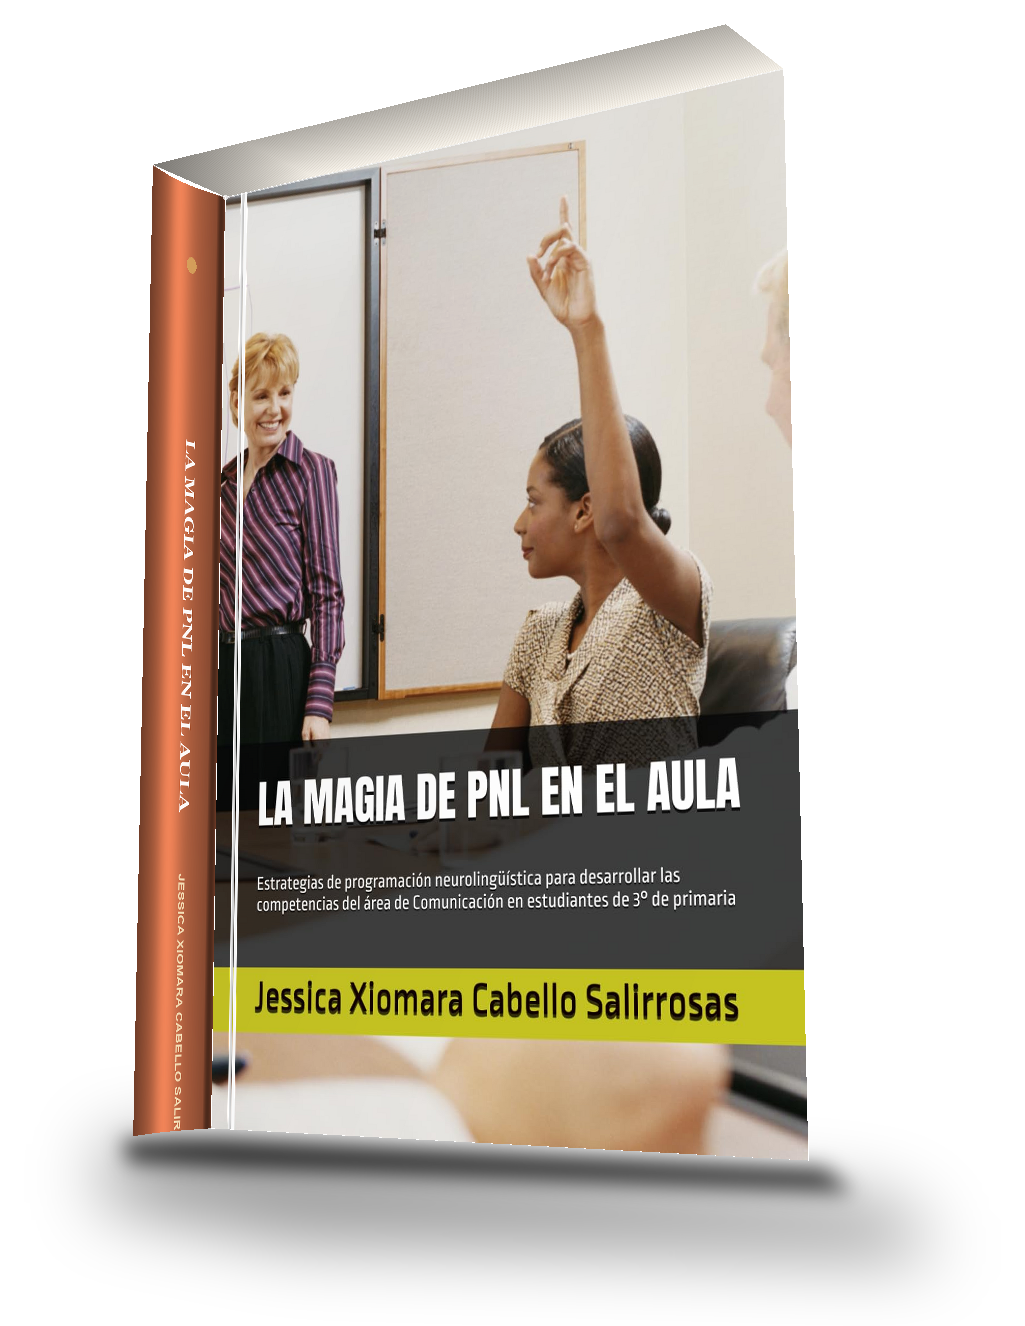
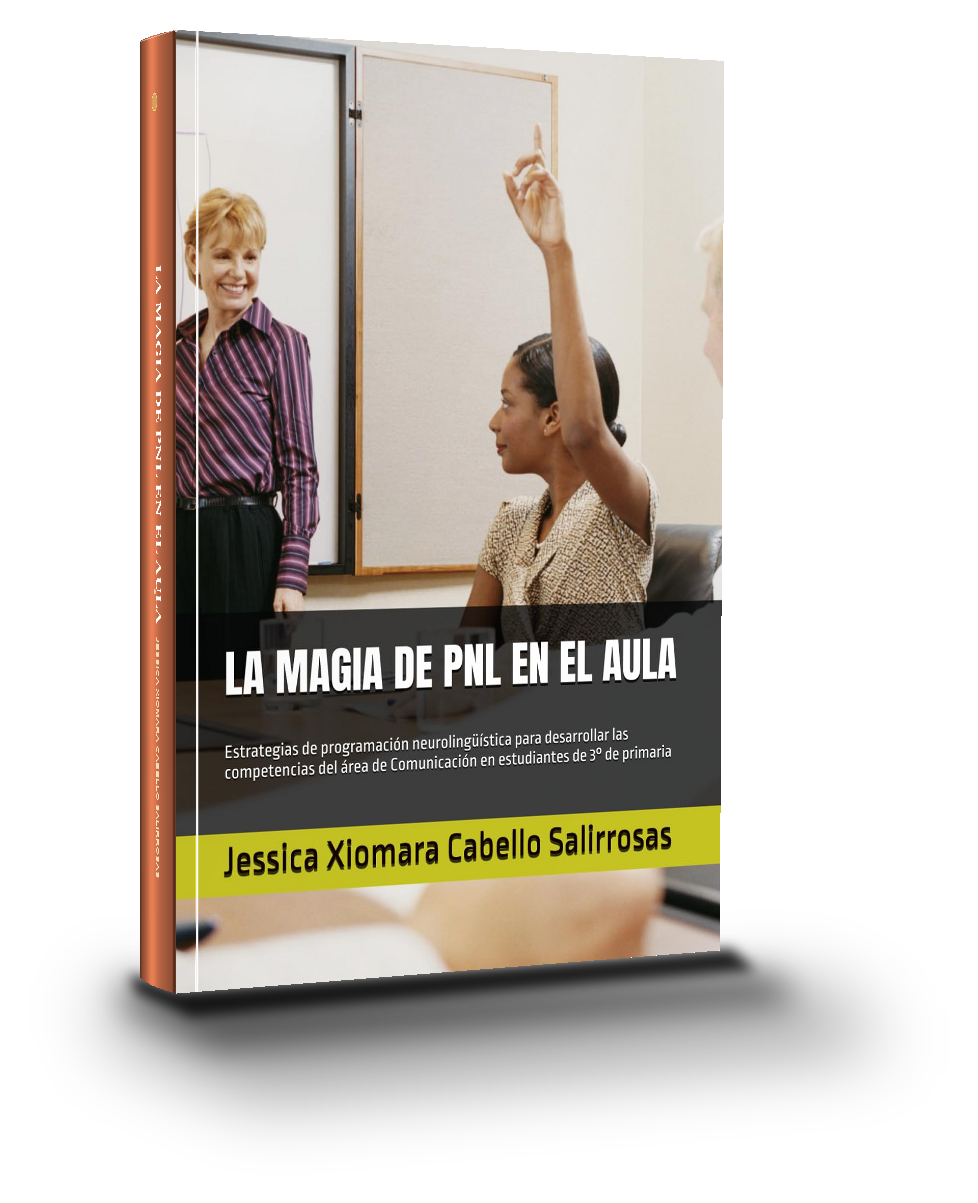
fix(3d-book): eliminate reverse-perspective distortion, deploy hyperrealistic upright 3D paperback mockup with curved spine and grounded shadow

diff --git a/el-libro/index.html b/el-libro/index.html
@@ -201,7 +201,7 @@ h1,h2,h3,h4,h5,h6{margin-bottom:20px;}@media (min-width:922px){.ast-hide-display
 .jc-actions{display:flex;gap:12px;flex-wrap:wrap}.jc-btn{display:inline-flex;align-items:center;justify-content:center;padding:14px 20px;border-radius:999px;text-decoration:none!important;font-weight:800;transition:transform 180ms cubic-bezier(.23,1,.32,1),box-shadow 180ms ease,background-color 180ms ease}.jc-btn:hover{transform:translateY(-3px)}.jc-btn-primary{background:var(--jc-terracotta);color:#fff!important;box-shadow:0 12px 24px rgba(0,0,0,.16)}.jc-btn-primary:hover{background:#ae583d;box-shadow:0 16px 28px rgba(0,0,0,.23)}.jc-btn-outline{border:1px solid #f3cf8d;color:#fff!important;background:rgba(255,255,255,.03)}.jc-btn-outline:hover{background:rgba(255,255,255,.1)}
 .jc-book-showcase{position:relative;z-index:1;display:flex;align-items:center;justify-content:center;padding:clamp(28px,4vw,48px) clamp(16px,3vw,36px)}
 .jc-book-showcase::before{content:"";position:absolute;width:440px;height:440px;background:radial-gradient(circle,rgba(214,163,92,.28) 0%,rgba(214,163,92,.06) 48%,transparent 70%);border-radius:50%;pointer-events:none}
-.jc-book-3d-realista{position:relative;width:min(100%,460px);height:auto;aspect-ratio:1025/1326;object-fit:contain;display:block;filter:drop-shadow(0 20px 42px rgba(0,0,0,.42));transition:transform 350ms cubic-bezier(.23,1,.32,1)}
+.jc-book-3d-realista{position:relative;width:min(100%,460px);height:auto;aspect-ratio:978/1203;object-fit:contain;display:block;filter:drop-shadow(0 14px 32px rgba(0,0,0,.32));transition:transform 350ms cubic-bezier(.23,1,.32,1)}
 .jc-book-showcase:hover .jc-book-3d-realista{transform:translateY(-8px) scale(1.02)}
 .jc-section{padding:clamp(62px,9vw,112px) clamp(26px,6vw,84px)}.jc-section .jc-eyebrow{margin:0 0 12px;color:var(--jc-terracotta);font-size:12px;font-weight:800;letter-spacing:.16em;text-transform:uppercase}.jc-section h2{font-size:clamp(32px,4.3vw,56px);line-height:1.08;color:var(--jc-forest);margin:0 0 18px}.jc-section .jc-text{font-size:18px;line-height:1.75;color:var(--jc-muted);max-width:720px;margin:0}.jc-split{display:grid;grid-template-columns:.88fr 1.12fr;gap:clamp(34px,7vw,88px);align-items:start}.jc-highlight{background:var(--jc-cream);border-radius:28px;padding:clamp(34px,5vw,56px);position:relative;overflow:hidden}.jc-highlight:after{content:"";position:absolute;right:-46px;bottom:-70px;width:190px;height:190px;border-radius:50%;border:36px solid rgba(196,110,79,.14)}
 .jc-problem-list,.jc-benefit-grid,.jc-topic-grid{display:grid;gap:16px}.jc-problem-list{grid-template-columns:repeat(3,minmax(0,1fr));margin-top:28px}.jc-problem{background:var(--jc-paper);border:1px solid #ece4d8;border-radius:18px;padding:24px;box-shadow:0 6px 18px rgba(22,49,44,.04)}.jc-problem strong{display:block;font-size:17px;color:var(--jc-forest);margin-bottom:8px}.jc-problem p{font-size:15px;line-height:1.65;color:var(--jc-muted);margin:0}
@@ -225,7 +225,7 @@ h1,h2,h3,h4,h5,h6{margin-bottom:20px;}@media (min-width:922px){.ast-hide-display
 
 </div>
 <div class="jc-book-showcase" aria-label="Presentación 3D del libro La magia de PNL en el aula">
-  <img decoding="async" class="jc-book-3d-realista" src="/wp-content/uploads/2026/09/la-magia-de-pnl-en-el-aula-libro-3d-realista.webp" alt="Libro 3D La magia de PNL en el aula, de Jessica Xiomara Cabello Salirrosas" loading="eager" width="1025" height="1326">
+  <img decoding="async" class="jc-book-3d-realista" src="/wp-content/uploads/2026/09/la-magia-de-pnl-en-el-aula-libro-3d-realista.webp" alt="Libro 3D La magia de PNL en el aula, de Jessica Xiomara Cabello Salirrosas" loading="eager" width="978" height="1203">
 </div>
 </section>
 <section class="jc-section jc-split" aria-labelledby="jc-reto-title">

diff --git a/recursos-para-docentes/index.html b/recursos-para-docentes/index.html
@@ -305,7 +305,7 @@ h1,h2,h3,h4,h5,h6{margin-bottom:20px;}@media (min-width:922px){.ast-hide-display
 <div class="jr-actions" style="margin-top:24px"><a class="jr-btn jr-btn-primary" href="/el-libro/">Conocer el libro</a><a class="jr-btn jr-btn-outline" href="https://www.amazon.es/MAGIA-PNL-AULA-programaci%C3%B3n-neuroling%C3%BC%C3%ADstica/dp/B0DS9GLGS2" target="_blank" rel="noopener noreferrer">Ver disponibilidad</a></div>
 </div>
 <div style="display:flex;justify-content:center;align-items:center">
-<img decoding="async" src="/wp-content/uploads/2026/09/la-magia-de-pnl-en-el-aula-libro-3d-realista.webp" alt="Libro 3D La magia de PNL en el aula de Jessica Cabello" style="width:100%;max-width:320px;height:auto;filter:drop-shadow(0 20px 38px rgba(0,0,0,.35));display:block" loading="lazy" width="1025" height="1326">
+<img decoding="async" src="/wp-content/uploads/2026/09/la-magia-de-pnl-en-el-aula-libro-3d-realista.webp" alt="Libro 3D La magia de PNL en el aula de Jessica Cabello" style="width:100%;max-width:320px;height:auto;filter:drop-shadow(0 20px 38px rgba(0,0,0,.35));display:block" loading="lazy" width="978" height="1203">
 </div>
 </section>
 <footer class="jr-page-footer">

diff --git a/sobre-jessica/index.html b/sobre-jessica/index.html
@@ -226,7 +226,7 @@ h1,h2,h3,h4,h5,h6{margin-bottom:20px;}@media (min-width:922px){.ast-hide-display
 <a style="display:inline-block;background:#c46e4f;color:#fff!important;padding:12px 20px;border-radius:999px;text-decoration:none;font-weight:700;font-size:15px;box-shadow:0 8px 18px rgba(196,110,79,.25)" href="/el-libro/">Conocer el libro</a>
 </div>
 <div style="display:flex;justify-content:center;align-items:center">
-<img decoding="async" src="/wp-content/uploads/2026/09/la-magia-de-pnl-en-el-aula-libro-3d-realista.webp" alt="Libro 3D La magia de PNL en el aula, de Jessica Cabello" style="width:100%;max-width:320px;height:auto;filter:drop-shadow(0 18px 36px rgba(22,49,44,.22));display:block" loading="lazy" width="1025" height="1326">
+<img decoding="async" src="/wp-content/uploads/2026/09/la-magia-de-pnl-en-el-aula-libro-3d-realista.webp" alt="Libro 3D La magia de PNL en el aula, de Jessica Cabello" style="width:100%;max-width:320px;height:auto;filter:drop-shadow(0 18px 36px rgba(22,49,44,.22));display:block" loading="lazy" width="978" height="1203">
 </div>
 </div>
 
